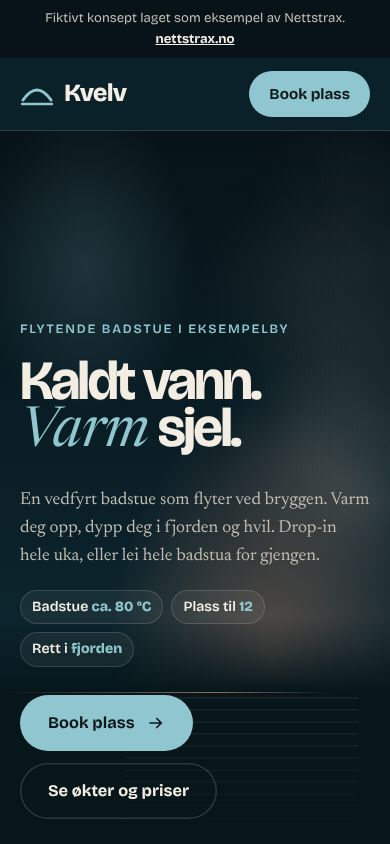
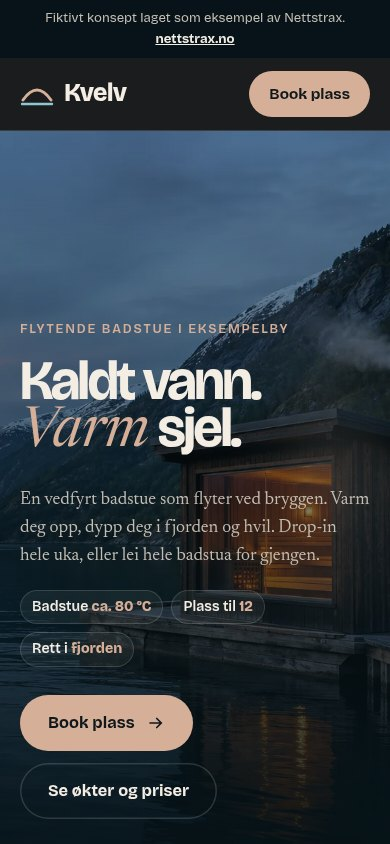
Legg til bilder på Kvelv Badstue

diff --git a/eksempler/kvelv.html b/eksempler/kvelv.html
@@ -283,6 +283,16 @@
       .js [data-inn], .js .linjer > span > span { opacity: 1; transform: none; }
       .steg li { opacity: 1; }
     }
+
+    /* Bilder fra det fiktive Kvelv-konseptet. */
+    .hero__foto { position: absolute; inset: 0; z-index: -2; display: block; width: 100%; height: 100%; object-fit: cover; object-position: 66% 50%; }
+    .hero__fotoskygge { position: absolute; inset: 0; z-index: -1; pointer-events: none; background: linear-gradient(90deg, rgba(7,19,24,.86) 0%, rgba(7,19,24,.65) 42%, rgba(7,19,24,.18) 100%), linear-gradient(0deg, rgba(7,19,24,.78), transparent 55%); }
+    .tre { background: #1a2524; }
+    .tre img { display: block; width: 100%; height: 100%; object-fit: cover; object-position: 48% center; }
+    .tre::before, .tre::after { content: none; }
+    .ritual__foto { margin: 38px 0 0; }
+    .ritual__foto img { display: block; width: 100%; height: auto; aspect-ratio: 16 / 9; object-fit: cover; border-radius: 28px; }
+    @media (max-width: 700px) { .hero__foto { object-position: 69% center; } .hero__fotoskygge { background: linear-gradient(0deg, rgba(7,19,24,.92), rgba(7,19,24,.45) 62%, rgba(7,19,24,.22)); } }
   </style>
 </head>
 <body>
@@ -311,17 +321,9 @@
   <main id="innhold">
     <!-- ============ HERO ============ -->
     <section class="hero" aria-labelledby="hero-tittel">
-      <div class="hero__himmel" aria-hidden="true"></div>
-      <svg class="hero__hytte" viewBox="0 0 220 120" aria-hidden="true">
-        <path d="M20 96 L110 30 L200 96 Z" fill="#06161B"/>
-        <rect x="40" y="70" width="140" height="30" fill="#06161B"/>
-        <rect x="96" y="74" width="26" height="18" rx="2" fill="#F4A582"/>
-        <rect x="96" y="74" width="26" height="18" rx="2" fill="#FFD9B8" opacity=".5"/>
-        <path d="M10 104 H210" stroke="#06161B" stroke-width="10" stroke-linecap="round"/>
-        <rect x="150" y="20" width="10" height="34" fill="#06161B"/>
-      </svg>
+      <img class="hero__foto" src="bilder/kvelv/fjord-badstue.webp" width="1536" height="1024" alt="Badstue med varmt lys på en brygge ved en fjord i blått kveldslys" fetchpriority="high">
       <canvas id="damp" aria-hidden="true"></canvas>
-      <div class="hero__fjord" aria-hidden="true"></div>
+      <div class="hero__fotoskygge" aria-hidden="true"></div>
       <div class="wrap hero__innhold">
         <p class="smaa">Flytende badstue i Eksempelby</p>
         <h1 id="hero-tittel" class="linjer" data-linjer><span><span>Kaldt vann.</span></span><span><span><em>Varm</em> sjel.</span></span></h1>
@@ -377,6 +379,7 @@
             <li data-steg="1"><span class="steg__nr">2</span><h3>Kald dukkert</h3><p>Gå rolig ned trappa og ut i fjorden. Pust ut, og kom opp igjen.</p><small>Noen sekunder</small></li>
             <li data-steg="2"><span class="steg__nr">3</span><h3>Hvil</h3><p>Sett deg på bryggen med et håndkle. Kjenn varmen komme tilbake.</p><small>10 minutter</small></li>
           </ol>
+          <figure class="ritual__foto" data-inn><img src="bilder/kvelv/brygge.webp" width="1536" height="1024" alt="Badetrapp fra bryggen ned i fjorden ved badstua" loading="lazy" decoding="async"></figure>
         </div>
       </div>
     </section>
@@ -417,7 +420,7 @@
     <!-- ============ OM ============ -->
     <section class="seksjon om" aria-labelledby="om-tittel">
       <div class="wrap">
-        <div class="tre" role="img" aria-label="Plassholder for bilde av badstua: varmt lys fra ovnen mot vegger av tre" data-inn></div>
+        <figure class="tre" data-inn><img src="bilder/kvelv/badstue-inne.webp" width="1536" height="1024" alt="Badstue i tre med ovn og stort vindu mot fjorden" loading="lazy" decoding="async"></figure>
         <div>
           <p class="smaa" data-inn>Om Kvelv</p>
           <h2 id="om-tittel" class="h2 linjer" data-linjer><span><span>Bygd for</span></span><span><span>fjorden.</span></span></h2>

diff --git a/index.html b/index.html
@@ -159,12 +159,12 @@
         <ul class="gallery__track" data-stagger>
           <li class="example" data-reveal>
             <div class="example__frame">
-              <a class="example__lenke" href="eksempler/kvelv.html" target="_blank" rel="noopener" aria-label="Åpne konseptsiden for Kvelv Badstue i ny fane"></a>
+              <a class="example__lenke" href="eksempler/kvelv.html?v=20261115" target="_blank" rel="noopener" aria-label="Åpne konseptsiden for Kvelv Badstue i ny fane"></a>
               <span class="example-cover preview">
-                <img src="eksempler/bilder/forhandsvis/kvelv-pc.jpg" alt="Skjermbilde av konseptsiden Kvelv Badstue" width="1200" height="900" loading="lazy" decoding="async"><iframe class="preview__ramme" data-src="eksempler/kvelv.html" title="Levende forhåndsvisning av konseptsiden Kvelv Badstue" tabindex="-1" aria-hidden="true" width="1280" height="960"></iframe><span class="example-cover__mobil" aria-hidden="true"><img src="eksempler/bilder/forhandsvis/kvelv-mobil.jpg" alt="" width="390" height="844" loading="lazy" decoding="async"><iframe class="preview__mobil" data-src="eksempler/kvelv.html" title="" tabindex="-1" width="390" height="844"></iframe></span>
+                <img src="eksempler/bilder/forhandsvis/kvelv-pc.jpg?v=20261115" alt="Skjermbilde av konseptsiden Kvelv Badstue" width="1200" height="900" loading="lazy" decoding="async"><iframe class="preview__ramme" data-src="eksempler/kvelv.html?v=20261115" title="Levende forhåndsvisning av konseptsiden Kvelv Badstue" tabindex="-1" aria-hidden="true" width="1280" height="960"></iframe><span class="example-cover__mobil" aria-hidden="true"><img src="eksempler/bilder/forhandsvis/kvelv-mobil.jpg?v=20261115" alt="" width="390" height="844" loading="lazy" decoding="async"><iframe class="preview__mobil" data-src="eksempler/kvelv.html?v=20261115" title="" tabindex="-1" width="390" height="844"></iframe></span>
               </span>
             </div>
-            <div class="example__meta"><h3 class="example__title">Kvelv Badstue</h3><p class="example__kind">Konseptside · fiktiv bedrift</p><p class="example__feat">Økter, priser og booking av plass</p><div class="example__actions"><a class="btn btn--glass btn--sm" href="eksempler/kvelv.html" target="_blank" rel="noopener">Åpne siden <svg class="arrow-icon" viewBox="0 0 24 24" aria-hidden="true" focusable="false"><path d="M8 16 16 8M9 8h7v7"/></svg></a><button class="btn btn--glass btn--sm" type="button" data-mobil="eksempler/kvelv.html" data-navn="Kvelv Badstue">Åpne som mobil</button></div></div>
+            <div class="example__meta"><h3 class="example__title">Kvelv Badstue</h3><p class="example__kind">Konseptside · fiktiv bedrift</p><p class="example__feat">Økter, priser og booking av plass</p><div class="example__actions"><a class="btn btn--glass btn--sm" href="eksempler/kvelv.html?v=20261115" target="_blank" rel="noopener">Åpne siden <svg class="arrow-icon" viewBox="0 0 24 24" aria-hidden="true" focusable="false"><path d="M8 16 16 8M9 8h7v7"/></svg></a><button class="btn btn--glass btn--sm" type="button" data-mobil="eksempler/kvelv.html?v=20261115" data-navn="Kvelv Badstue">Åpne som mobil</button></div></div>
           </li>
           <li class="example" data-reveal>
             <div class="example__frame">

diff --git a/eksempler/bilder/kvelv/KILDER.md b/eksempler/bilder/kvelv/KILDER.md
@@ -1,0 +1,3 @@
+# Bilder til Kvelv
+
+Bildene er KI-genererte illustrasjoner laget for det fiktive konseptet Kvelv Badstue. Interiøret og bryggen er generert med eksteriørbildet som visuell referanse, og bildene viser ikke et virkelig sted.
